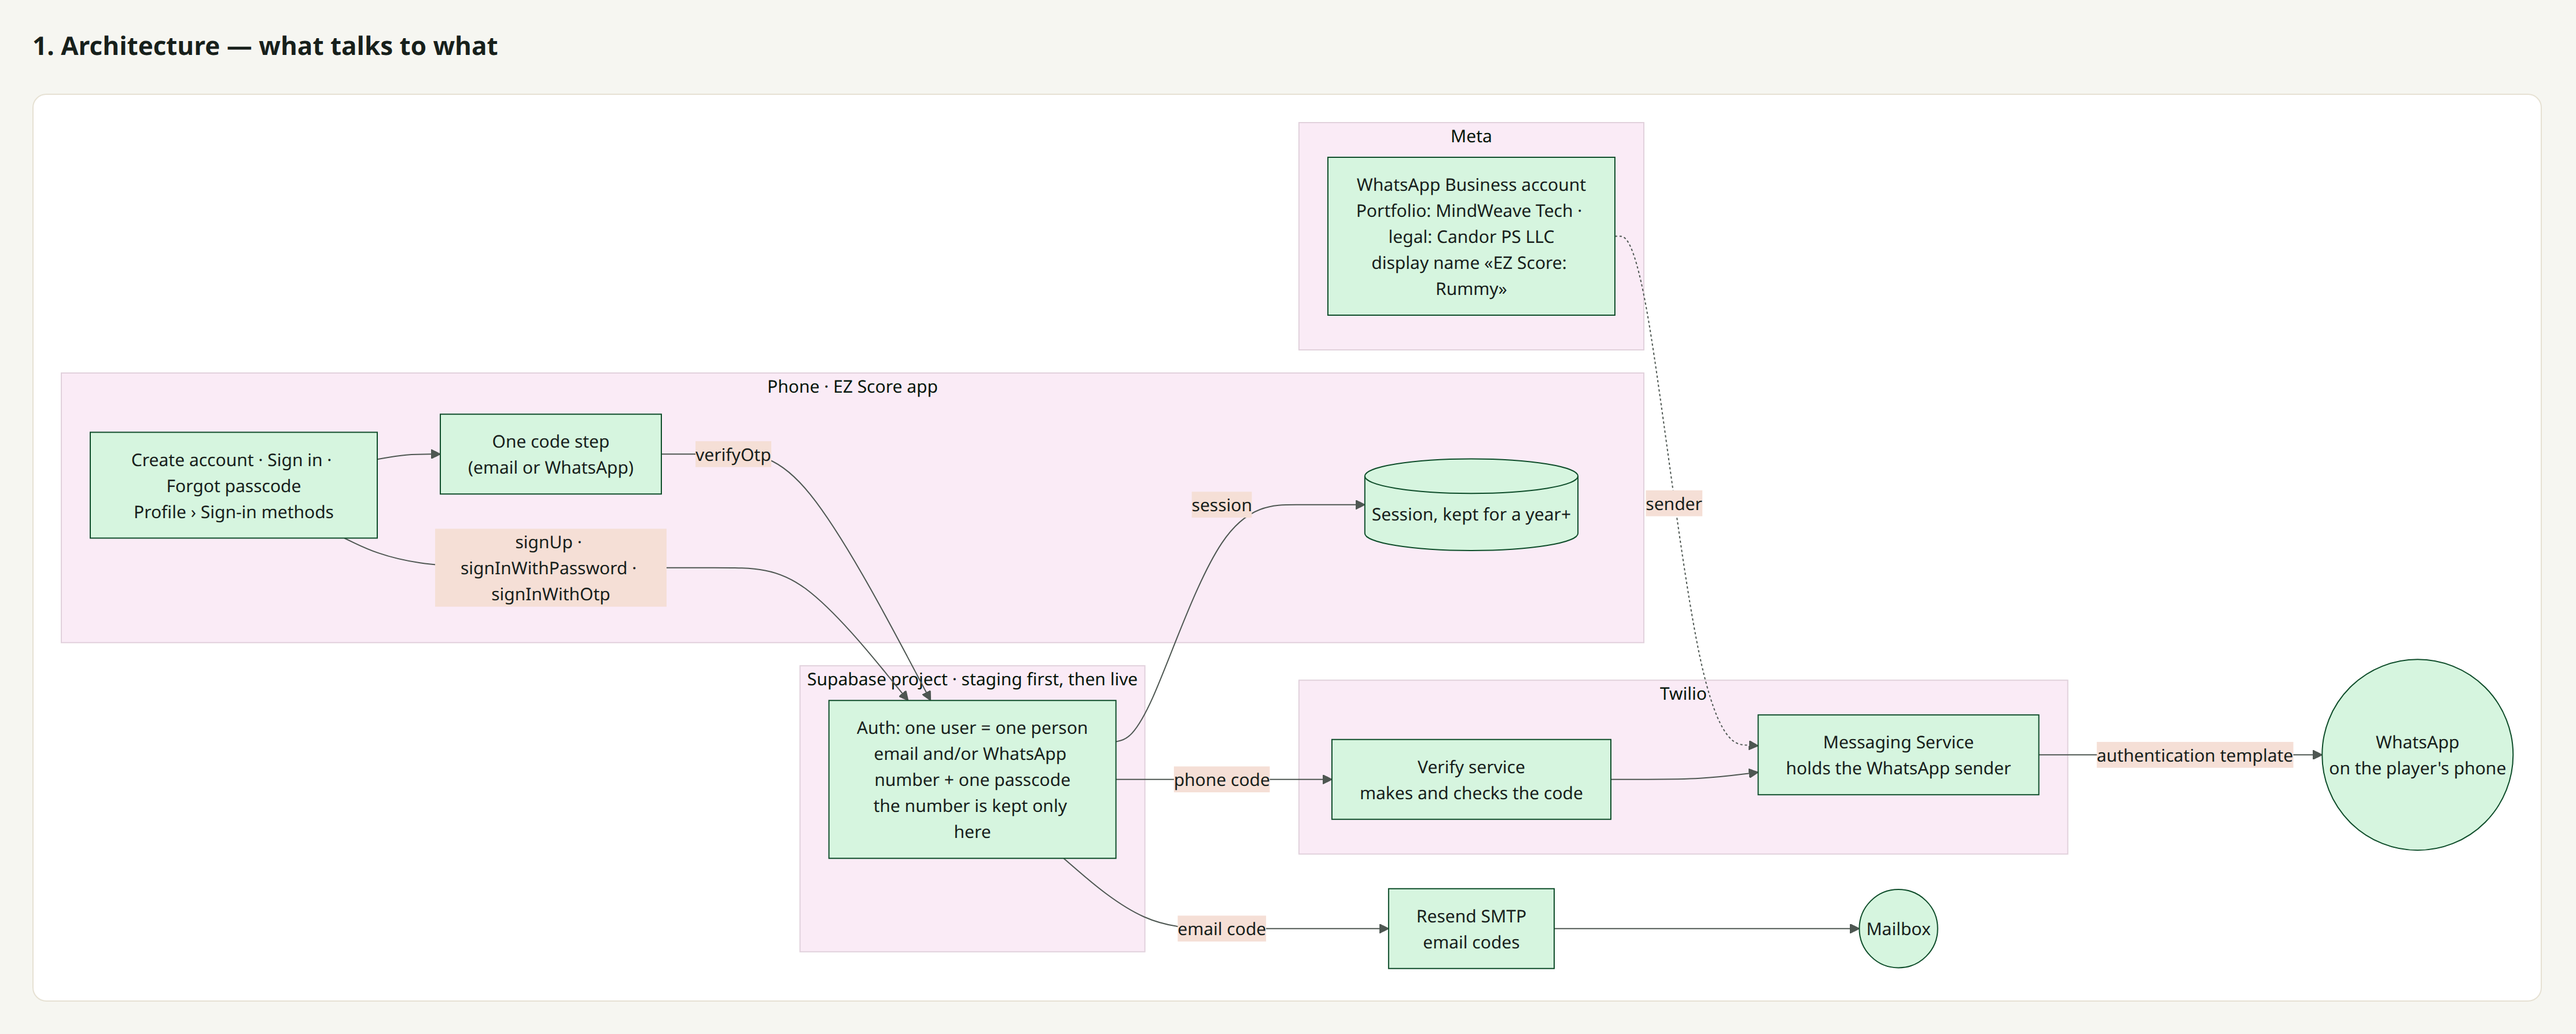
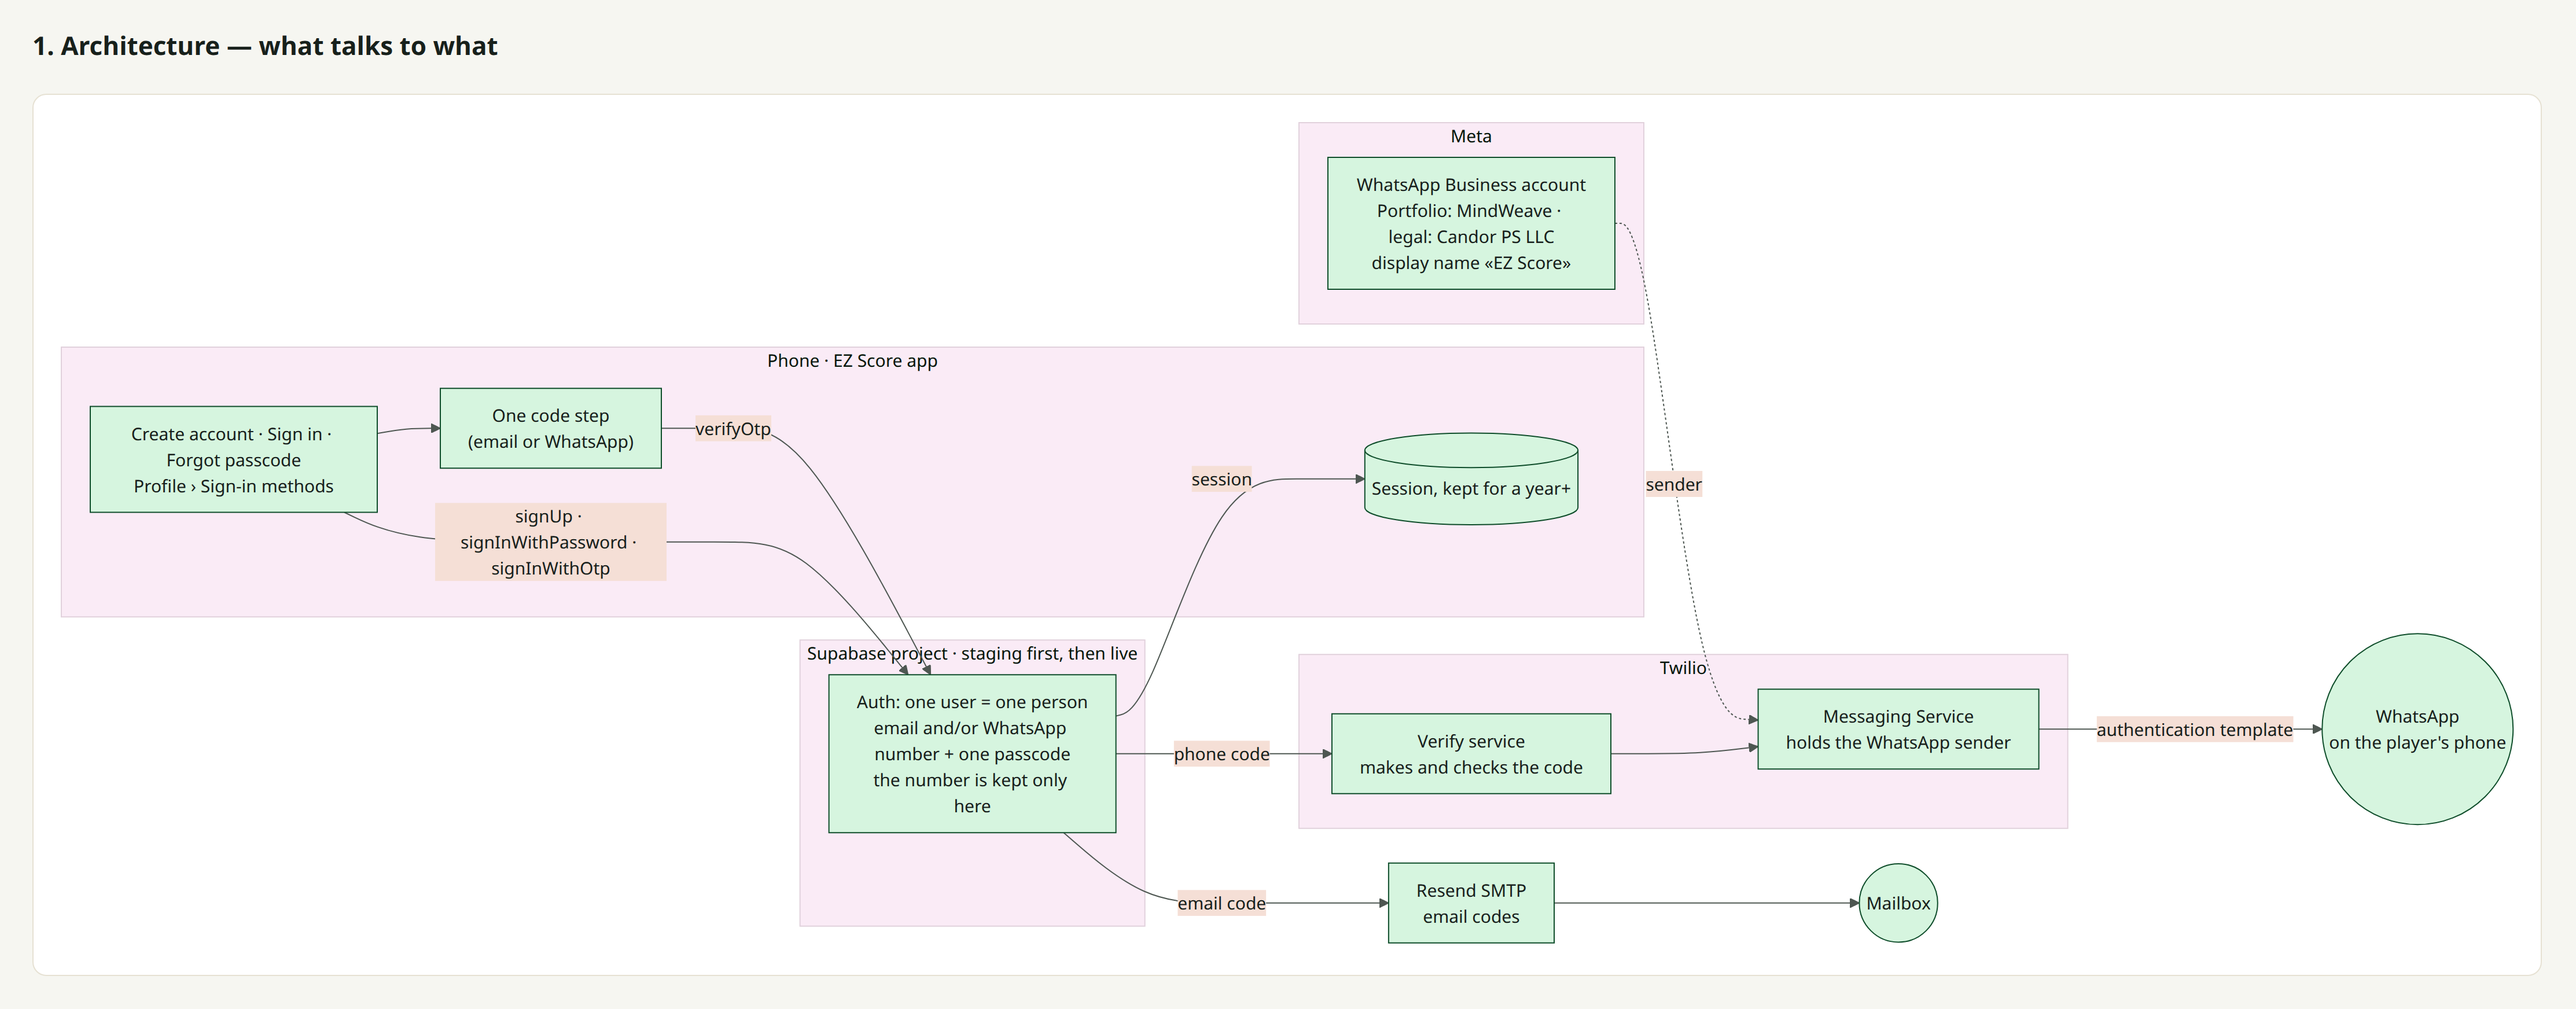
WhatsApp spec: one APK (D117), MindWeave and EZ Score names (D118, D119), new Twilio number (D120), California DBA (D121), Candor PS out of sight (D123)

diff --git a/rummy-home3/docs/whatsapp-sign-in/make-whatsapp-mockups.py b/rummy-home3/docs/whatsapp-sign-in/make-whatsapp-mockups.py
@@ -251,7 +251,7 @@ body{position:relative;min-height:620px}
 
 def wa_message():
     return ('<div class="status"><span>2:35</span><span>▾ ▲ ▮</span></div>'
-            '<div class="top"><div class="av">E</div><div><div class="n">EZ Score: Rummy</div><div class="s">Business account</div></div></div>'
+            '<div class="top"><div class="av">E</div><div><div class="n">EZ Score</div><div class="s">Business account</div></div></div>'
             '<div class="day"><span>Today</span></div>'
             '<div class="msg"><b>482913</b> is your verification code. For your security, do not share this code.'
             '<div class="t">2:34 PM</div></div><div class="cta">⧉ Copy code</div><div class="bar"></div>')
@@ -264,10 +264,10 @@ sheet('(b) The 6-digit code step — the same screen for email and WhatsApp',
         'Today\'s step from the sign-up code PR. The "Is this you?" note under it goes: since D113 nobody is matched by email or number.'),
        ('WhatsApp (same component)', render('code-wa', lambda: code_step('wa')),
         'Only the icon, the title, the label and "Wrong number?" change. The number is shown with the middle hidden. '
-        'Six digits sign you in at once; the same step is used for Forgot passcode and for adding or changing a number.'),
+        'Confirm and sign in signs you in (a tap, as in #151); the same step is used for Forgot passcode and for adding or changing a number.'),
        ('The message in WhatsApp', render_plain('wa-msg', wa_message(), WA_CSS),
         'Meta\'s fixed authentication message (Twilio sends it; the wording is not ours). The sender is our approved name, '
-        'EZ Score: Rummy. Copy code fills the box when pasted.')],
+        'EZ Score (D119). Copy code fills the box when pasted.')],
       'wa-code-step.png')
 
 

diff --git a/rummy-home3/docs/whatsapp-sign-in/whatsapp-sign-in-design.md b/rummy-home3/docs/whatsapp-sign-in/whatsapp-sign-in-design.md
@@ -23,13 +23,13 @@ In this order. **[staging]** means the WhatsApp staging APK cannot get a real Wh
 **[live]** means only going live waits for it. **None of the steps holds up writing the code**: the tests use
 Supabase test numbers with fixed codes, so the build starts the day Sree says yes to the pictures.
 
-1. **[staging]** Create the Meta Business Portfolio at business.facebook.com: legal business name *Candor PS LLC*, business name *MindWeave Tech* (D77), Sree as admin. Free.
-2. **[live]** Make sure the DBA *MindWeave Tech* is filed for Candor PS LLC, and say yes to the small PR that adds *"MindWeave Tech is a trade name (DBA) of Candor PS LLC."* to the footer of ezscore.mindweavetech.com and to the privacy policy (Meta checks that the names agree before step 6).
-3. **[staging]** Upgrade the Twilio account to paid (a card and a $20 first top-up) and buy a US local number, about $1.15 a month, that has never been on WhatsApp or WhatsApp Business.
-4. **[staging]** In the Twilio Console, run WhatsApp *Self Sign-up* with that number: it creates the WhatsApp Business Account inside the step 1 portfolio and links it to Twilio (about an hour); the display name is *EZ Score: Rummy*.
-5. **[live]** Wait for Meta's display-name review of *EZ Score: Rummy* (usually a day or two); if Meta rejects it, fix what the email says and resubmit.
+1. **[staging]** Create the Meta Business Portfolio at business.facebook.com (or use Candor PS's, if one exists): legal business name *Candor PS LLC*, business name *MindWeave* (D118), website ezscore.mindweavetech.com, Sree as admin. Free.
+2. **[live]** File the California DBA *MindWeave* for Candor PS LLC (D121): a Fictitious Business Name statement at the county clerk, then the newspaper notice for four weeks. Build Bot fills the forms; Sree signs and pays. It links the business name Meta shows (MindWeave) to the legal name on the EIN letter, so it is done before step 6. The website says only *MindWeave* (D123: "CandorPS shouldn't even show up unless it's mandatory").
+3. **[staging]** Upgrade the Twilio account to paid (a card and a $20 first top-up) and buy a new US local number, about $1.15 a month, used only for the codes (D120, Sree: "Q47: use a new Twilio number").
+4. **[staging]** In the Twilio Console, run WhatsApp *Self Sign-up* with that number: it creates the WhatsApp Business Account inside the step 1 portfolio and links it to Twilio (about an hour); the display name is *EZ Score* (D119).
+5. **[live]** Wait for Meta's display-name review of *EZ Score* (usually a day or two); if Meta rejects it, fix what the email says and resubmit.
 6. **[live]** Start business verification in Meta's Security Centre with the EIN letter (CP 575 or 147C) for Candor PS LLC, the address exactly as on the letter; it is free and can take one to two weeks or more, so start it the same day as step 4.
-7. **[staging]** In Twilio, create a Messaging Service holding the WhatsApp sender, then a Verify service named *EZ Score: Rummy* with 6-digit codes, pick that Messaging Service on its WhatsApp tab, set a usage alert at $20 a month (Q26), and allow only India, US, Canada, UK, UAE and Australia.
+7. **[staging]** In Twilio, create a Messaging Service holding the WhatsApp sender, then a Verify service named *EZ Score* with 6-digit codes, pick that Messaging Service on its WhatsApp tab, set a usage alert at $20 a month (Q26), and allow only India, US, Canada, UK, UAE and Australia.
 8. **[staging]** Put the Twilio Account SID, Auth Token and Verify Service SID into the **staging** Supabase project only (Authentication › Sign In / Providers › Phone › Twilio Verify, WhatsApp on), or add them as Cloud Agent secrets and Build Bot does it; live gets them only after Sree has tried the staging APK and says yes.
 
 **Costs.** The Twilio number is about $1.15 a month. Each code that is typed correctly costs about $0.05 to Twilio,
@@ -57,7 +57,7 @@ the display name and business verification are free. For 1,000 WhatsApp accounts
 - **The real work is paperwork** (the checklist above): Meta portfolio, WhatsApp account through Twilio, display name,
   business verification. Verification can take weeks, so it starts now; it holds up going live, not the build.
 - **Cheap.** About $0.05 per sign-up; sign-ins free; no SMS at launch (Q25).
-- **When.** Before the code freeze (D116): the main staging APK first, then a WhatsApp staging APK built on it (§9).
+- **When.** Before the code freeze (D116), and in the next staging APK: the APK waits for WhatsApp (D117, Sree: "Q46: yes, the staging APK should wait for WhatsApp").
 
 ## 1. How it works (Supabase + Twilio Verify + Meta)
 
@@ -159,16 +159,16 @@ Mindweave, and then the next layer is CandorPS if they ever need it."*
 
 | Layer | Name | Where it appears |
 | --- | --- | --- |
-| What players see | **EZ Score: Rummy** | WhatsApp display name, email sender, store listing |
-| Brand / DBA | **MindWeave Tech** | Business Portfolio name, ezscore.mindweavetech.com, support address, privacy policy |
+| What players see | **EZ Score** (WhatsApp, D119) · **EZ Score: Rummy** (store listing, email sender) | WhatsApp display name; the app's own name |
+| Brand | **MindWeave** (D118; no "Tech") | Business Portfolio name, ezscore.mindweavetech.com, support address, privacy policy |
 | Legal | **Candor PS LLC** | the portfolio's legal business name, the verification document (EIN letter), Apple (D62) |
 
-Meta checks that the display name, the website and the document **agree**. A DBA is the normal way: legal name
-Candor PS LLC, business name MindWeave Tech, and the website says how they connect, in one footer line on
-ezscore.mindweavetech.com and in the privacy policy: *"MindWeave Tech is a trade name (DBA) of Candor PS LLC."* If the
-DBA is not filed with the state yet, file it first; Meta may ask for the DBA certificate when the names differ.
-The website and privacy policy publish themselves from `public/`, so that line is its own small PR with Sree's yes
-(D83).
+Meta checks that the display name, the website and the document **agree**. The legal name on the EIN letter is
+Candor PS LLC; the portfolio shows MindWeave and the website says only MindWeave (D123). The California DBA (D121)
+is the paper that ties MindWeave to Candor PS LLC, and Meta may ask for it when the two names differ, so it is filed
+before business verification (checklist step 2). Sree on the names: *"Let's just call it MindWeave, simple, like
+Google"*, *"just say EZ Score … all of the scoring apps will be called EZ Score"*, and *"CandorPS shouldn't even
+show up unless it's mandatory."*
 
 What was re-checked on Nov 26 (Twilio and Meta docs), and what changed from the Nov 23 text:
 
@@ -180,7 +180,7 @@ What was re-checked on Nov 26 (Twilio and Meta docs), and what changed from the 
 - **Self Sign-up** (Twilio Console › Messaging › Senders › WhatsApp senders) opens Meta's pop-up, creates the WABA
   inside our portfolio and links it to Twilio; about an hour. Twilio keeps one WABA per Twilio account. **New since
   Nov 23:** the sender must be put in a **Messaging Service**, and the Verify service's WhatsApp tab points at it.
-- **Display name.** Meta reviews *EZ Score: Rummy* after registration. If rejected, the sender is held at 250
+- **Display name.** Meta reviews *EZ Score* after registration. If rejected, the sender is held at 250
   messages a day and can be cut off, so it blocks going live. The store listing and the website are the evidence
   that the name is ours.
 - **Business verification** (Meta Security Centre): legal name, address, phone, website, and one document; for a US
@@ -193,7 +193,7 @@ What was re-checked on Nov 26 (Twilio and Meta docs), and what changed from the 
 - **Twilio Verify service.** Code length 6; WhatsApp channel on, pointing at the Messaging Service; the usage alert
   at $20 a month and the six countries (Q26).
 - **Keys to Supabase, staging first.** Account SID, Auth Token, Verify Service SID go into `ezscore-staging` only.
-  Live gets them after Sree tries the WhatsApp staging APK and says yes to that step (§9).
+  Live gets them after Sree tries the staging APK and says yes to that step (§9).
 
 Risks: a mismatch between the legal name, the website and the display name is the usual rejection; a number already
 on WhatsApp cannot be used; the WABA must be in the company portfolio, not Sree's personal Facebook, or it dies with
@@ -334,9 +334,8 @@ Every picture is a 360-dp phone (Sree's phone width), light mode.
    APK; steps 2, 5, 6 only for going live. Verification is the long wait, so it starts first.
 2. **On Sree's yes to the pictures**: one app PR, built and tested entirely on Supabase test numbers (no Twilio, no
    Meta). The Maestro flows run on CI with fixed codes.
-3. **The main staging APK goes first**, unchanged by this work. The **WhatsApp staging APK** is the next build on
-   staging, after Sree's yes to that build, once checklist step 8 is done: Sree signs up with his own number and gets
-   a real code.
+3. **One staging APK with everything, WhatsApp included** (D117). It is built on Sree's yes once the other pending
+   items have landed and checklist step 8 is done; Sree signs up with his own number and gets a real code.
 4. **Live**, each step on its own yes: the Twilio keys in live Supabase, the Play Data safety edit, the store build.
    Live waits for the display name (step 5) and business verification (step 6).
 5. **Then the freeze** (D116): "If the WhatsApp integration is done, I think I will have an app that works
@@ -372,8 +371,9 @@ step's words for both channels.
 ## 10. Decisions for Sree
 
 - ~~**Q20**~~ **answered Nov 25 (D116)**: go, and before the freeze. Sree: "There's no reason to wait for that!"
-- ~~**Q21**~~ answered Nov 23 (D77): players see EZ Score: Rummy; brand / DBA MindWeave Tech; legal name Candor PS
-  LLC. Needs the DBA line on the website and privacy policy (checklist step 2).
+- ~~**Q21**~~ answered Nov 23 (D77), revised Nov 25: players see EZ Score (WhatsApp, D119) and EZ Score: Rummy (the
+  app); brand MindWeave (D118); legal name Candor PS LLC, kept off player-facing pages (D123); the California DBA ties
+  them together (D121).
 - ~~**Q22**~~ answered Nov 23 (D75): a backup contact is asked at sign-up with Skip and reminded once; it is a second
   way in.
 - ~~**Q23**~~ **decided by default (D116)**: an account with no backup that lost its only contact gets support with

diff --git a/rummy-home3/docs/whatsapp-sign-in/flows.md b/rummy-home3/docs/whatsapp-sign-in/flows.md
@@ -9,7 +9,7 @@ found and linked only by Player ID). WhatsApp is a way to **sign in**, never a w
 or WhatsApp, goes through **one code step** (flow 3), the screen the email sign-up already uses (D101).
 
 Decisions these flows follow: D75 (backup at sign-up with Skip, one reminder), D76 (one 6-digit passcode; sign-in sends
-no message), D77 (EZ Score: Rummy / MindWeave Tech / Candor PS LLC), D101 (code typed in the app), D105 (no Player ID
+no message), D77, D118, D119 (EZ Score / MindWeave / Candor PS LLC), D101 (code typed in the app), D105 (no Player ID
 box), D113 (Player ID only; nobody's number shown to anyone else), D116 (build it before the freeze).
 
 ## 1. Architecture — what talks to what
@@ -29,7 +29,7 @@ flowchart LR
     MG["Messaging Service<br/>holds the WhatsApp sender"]
   end
   subgraph meta["Meta"]
-    WABA["WhatsApp Business account<br/>Portfolio: MindWeave Tech · legal: Candor PS LLC<br/>display name «EZ Score: Rummy»"]
+    WABA["WhatsApp Business account<br/>Portfolio: MindWeave · legal: Candor PS LLC<br/>display name «EZ Score»"]
   end
   RES["Resend SMTP<br/>email codes"]
   WA(("WhatsApp<br/>on the player's phone"))
